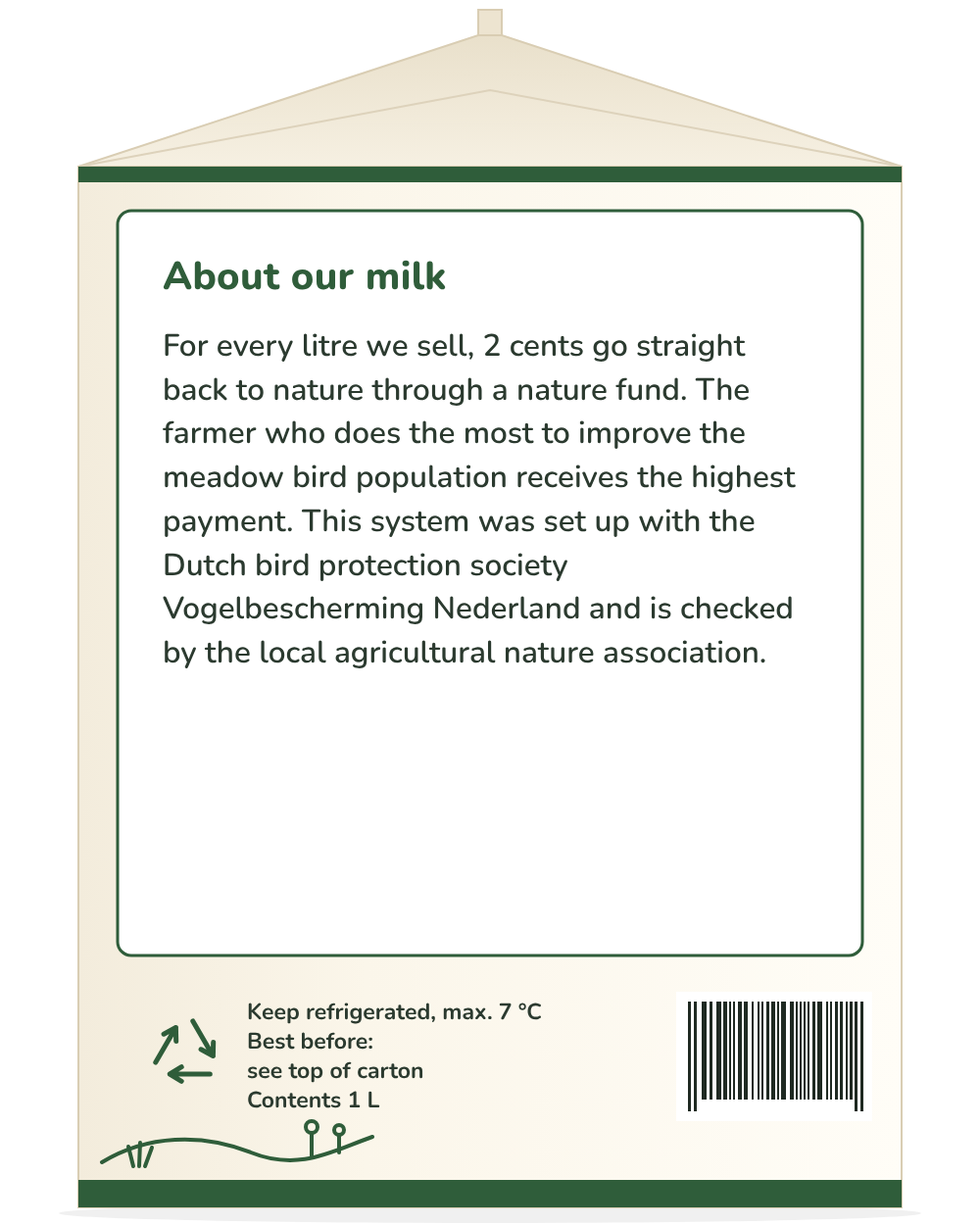
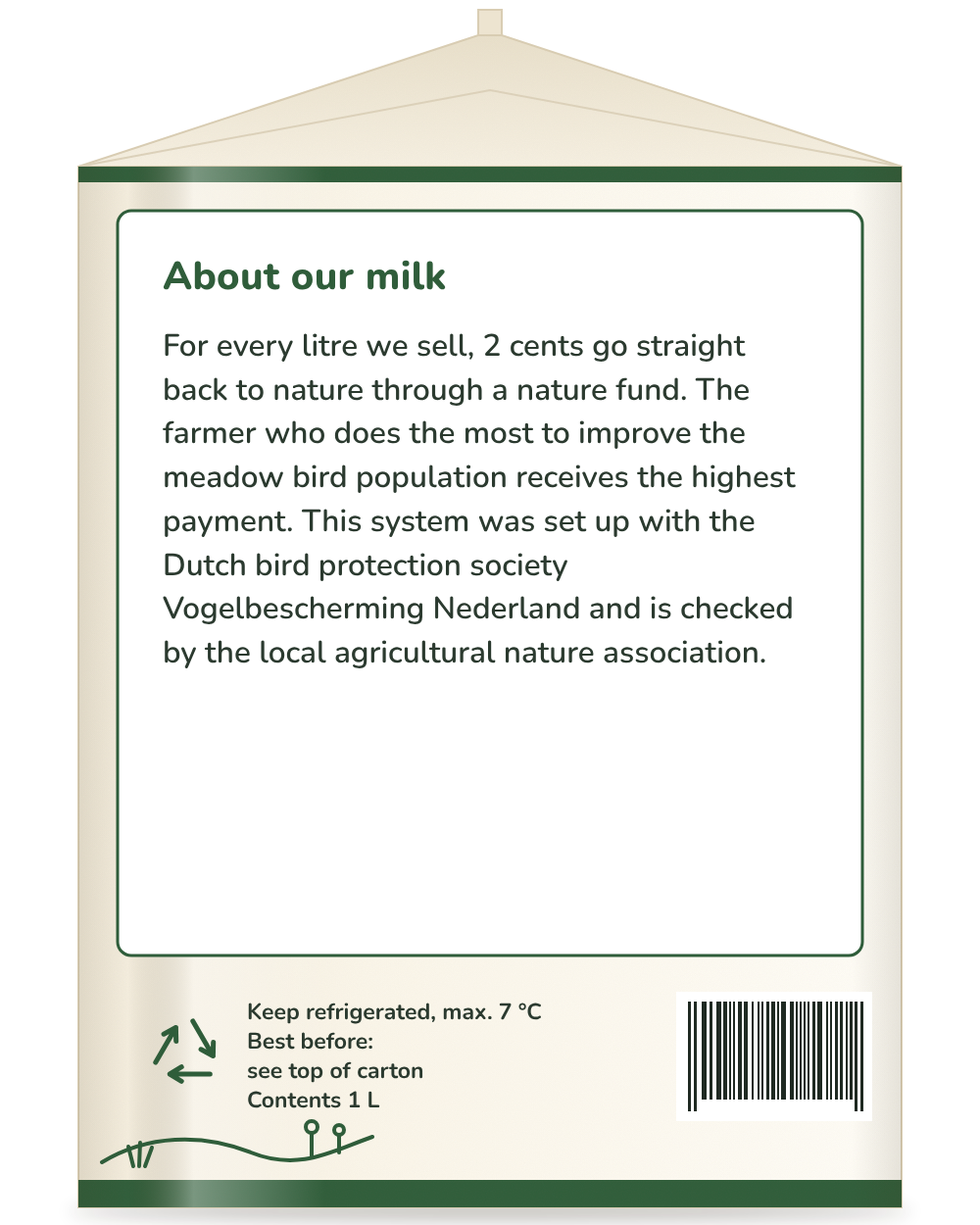
Redesign preview: realistic carton render, fuller webshop page, image zoom, progress indicator
Claude-Session: https://claude.ai/code/session_0165mzimojSkWb7uQjiVrJAc

Changed region(s): [[0.899, 0.156, 0.93, 0.9672], [0.155, 0.936, 0.775, 0.9984], [0.155, 0.1248, 0.31, 0.156]]

diff --git a/index.html b/index.html
@@ -35,31 +35,36 @@
 
 <!-- PRODUCT PAGE -->
 <div id="shop" hidden>
+  <div class="util"><div class="util-inner"><span data-t>Gratis bezorging vanaf € 50</span><span class="util-right"><a data-t>Klantenservice</a><a data-t>Winkels</a></span></div></div>
   <header class="topbar">
     <div class="topbar-inner">
       <a class="logo" aria-label="Dagkorf">
-        <svg width="34" height="34" viewBox="0 0 34 34" aria-hidden="true"><rect width="34" height="34" rx="9" fill="#2F5D3A"/><path d="M8 14h18l-2.4 11.2a2 2 0 0 1-2 1.6h-9.2a2 2 0 0 1-2-1.6z" fill="#FAF7F0"/><path d="M12 14l5-6 5 6" fill="none" stroke="#FAF7F0" stroke-width="2.2" stroke-linecap="round" stroke-linejoin="round"/></svg>
+        <svg width="36" height="36" viewBox="0 0 34 34" aria-hidden="true"><rect width="34" height="34" rx="9" fill="#2F5D3A"/><path d="M8 14h18l-2.4 11.2a2 2 0 0 1-2 1.6h-9.2a2 2 0 0 1-2-1.6z" fill="#FAF7F0"/><path d="M12 14l5-6 5 6" fill="none" stroke="#FAF7F0" stroke-width="2.2" stroke-linecap="round" stroke-linejoin="round"/></svg>
         <span>Dagkorf</span>
       </a>
-      <nav class="menu"><a data-t>Producten</a><a data-t>Aanbiedingen</a></nav>
       <div class="search" role="search">
-        <svg width="18" height="18" viewBox="0 0 24 24" aria-hidden="true"><circle cx="11" cy="11" r="7" fill="none" stroke="currentColor" stroke-width="2"/><path d="M20 20l-4-4" stroke="currentColor" stroke-width="2" stroke-linecap="round"/></svg>
         <input type="text" placeholder="Waar ben je naar op zoek?" data-t-ph aria-label="Zoeken" tabindex="-1" readonly>
+        <span class="search-btn"><svg width="18" height="18" viewBox="0 0 24 24" aria-hidden="true"><circle cx="11" cy="11" r="7" fill="none" stroke="currentColor" stroke-width="2.2"/><path d="M20 20l-4-4" stroke="currentColor" stroke-width="2.2" stroke-linecap="round"/></svg></span>
       </div>
-      <div class="basket" aria-label="Winkelmand">
-        <svg width="24" height="24" viewBox="0 0 24 24" aria-hidden="true"><path d="M3 9h18l-2 11H5z" fill="none" stroke="currentColor" stroke-width="1.8" stroke-linejoin="round"/><path d="M8 9l4-5 4 5" fill="none" stroke="currentColor" stroke-width="1.8" stroke-linecap="round" stroke-linejoin="round"/></svg>
-        <span>0,00</span>
+      <div class="actions">
+        <a class="act act-user"><svg width="22" height="22" viewBox="0 0 24 24" fill="none" stroke="currentColor" stroke-width="1.8" stroke-linecap="round" stroke-linejoin="round" aria-hidden="true"><circle cx="12" cy="8" r="4"/><path d="M4 21c0-4.4 3.6-7 8-7s8 2.6 8 7"/></svg><span data-t>Inloggen</span></a>
+        <a class="act act-fav"><svg width="22" height="22" viewBox="0 0 24 24" fill="none" stroke="currentColor" stroke-width="1.8" stroke-linecap="round" stroke-linejoin="round" aria-hidden="true"><path d="M12 20.5s-7.5-4.6-7.5-10.2A4.3 4.3 0 0 1 12 7.6a4.3 4.3 0 0 1 7.5 2.7c0 5.6-7.5 10.2-7.5 10.2z"/></svg><span data-t>Favorieten</span></a>
+        <div class="basket" aria-label="Winkelmand"><svg width="24" height="24" viewBox="0 0 24 24" fill="none" stroke="currentColor" stroke-width="1.8" stroke-linecap="round" stroke-linejoin="round" aria-hidden="true"><path d="M3 9h18l-2 11H5z"/><path d="M8 9l4-5 4 5"/></svg><span class="badge" id="basketCount" hidden>0</span><span id="basketTotal">0,00</span></div>
       </div>
     </div>
+    <nav class="cats" aria-label="Categorieën"><div class="cats-inner">
+      <a data-t>Groente, fruit</a><a data-t>Vlees, vis</a><a class="on" data-t>Zuivel, eieren</a><a data-t>Brood, bakkerij</a><a data-t>Dranken</a><a data-t>Voorraadkast</a><a data-t>Diepvries</a><a class="cats-offer" data-t>Aanbiedingen</a>
+    </div></nav>
   </header>
 
   <main class="page">
-    <nav class="crumbs" aria-label="Kruimelpad"><a data-t>Producten</a><span>›</span><a data-t>Zuivel, eieren</a><span>›</span><a data-t>Melk</a></nav>
+    <nav class="crumbs" aria-label="Kruimelpad"><a data-t>Producten</a><span>›</span><a data-t>Zuivel, eieren</a><span>›</span><a data-t>Melk</a><span>›</span><a data-t>Volle melk</a></nav>
 
     <section class="product">
       <div class="gallery">
         <div class="main-image">
           <img id="mainImg" alt="Voorkant van het pak melk" width="1000" height="1250">
+          <button id="zoomBtn" class="zoom-btn" type="button" aria-label="Vergroot afbeelding"><svg width="20" height="20" viewBox="0 0 24 24" fill="none" stroke="currentColor" stroke-width="1.8" stroke-linecap="round" stroke-linejoin="round" aria-hidden="true"><circle cx="11" cy="11" r="7"/><path d="M20 20l-4-4M11 8v6M8 11h6"/></svg></button>
           <button id="prevBtn" class="nav-arrow nav-prev" type="button" aria-label="Vorige afbeelding"><svg width="22" height="22" viewBox="0 0 24 24" aria-hidden="true"><path d="M15 5l-7 7 7 7" fill="none" stroke="currentColor" stroke-width="2.4" stroke-linecap="round" stroke-linejoin="round"/></svg></button>
           <button id="nextBtn" class="nav-arrow nav-next" type="button" aria-label="Volgende afbeelding"><svg width="22" height="22" viewBox="0 0 24 24" aria-hidden="true"><path d="M9 5l7 7-7 7" fill="none" stroke="currentColor" stroke-width="2.4" stroke-linecap="round" stroke-linejoin="round"/></svg></button>
           <div class="dots" aria-hidden="true"><span data-dot="front"></span><span data-dot="side"></span></div>
@@ -72,13 +77,21 @@
       </div>
 
       <div class="info">
+        <a class="brand">Weidelicht</a>
         <h1 data-t class="title">Weidelicht Volle melk</h1>
         <p data-t class="unit">1 l • Prijs per liter € 2,19</p>
         <div class="buy">
           <p class="price" aria-label="2 euro 19">2<span class="dot">,</span><sup>19</sup></p>
-          <button class="btn btn-primary btn-add" type="button"><span data-t>Voeg toe</span> <span aria-hidden="true">+</span></button>
+          <button id="addBtn" class="btn btn-primary btn-add" type="button"><span data-t>Voeg toe</span> <span aria-hidden="true">+</span></button>
+          <div id="stepper" class="stepper" hidden>
+            <button id="minBtn" type="button" aria-label="Minder">−</button><span id="qty">1</span><button id="plusBtn" type="button" aria-label="Meer">+</button>
+          </div>
+          <button id="favBtn" class="fav-btn" type="button" aria-label="Favoriet" aria-pressed="false"><svg width="22" height="22" viewBox="0 0 24 24" fill="none" stroke="currentColor" stroke-width="1.8" stroke-linecap="round" stroke-linejoin="round" aria-hidden="true"><path d="M12 20.5s-7.5-4.6-7.5-10.2A4.3 4.3 0 0 1 12 7.6a4.3 4.3 0 0 1 7.5 2.7c0 5.6-7.5 10.2-7.5 10.2z"/></svg></button>
         </div>
-        <p class="shelf"><span data-t>Na bezorging</span> <strong data-t>minimaal 4 dagen houdbaar</strong></p>
+        <ul class="perks">
+          <li><svg width="20" height="20" viewBox="0 0 24 24" fill="none" stroke="currentColor" stroke-width="1.8" stroke-linecap="round" stroke-linejoin="round" aria-hidden="true"><path d="M2 6h11v10H2zM13 9h4.5l3.5 3.5V16h-8z"/><circle cx="6.5" cy="17.5" r="1.8"/><circle cx="17" cy="17.5" r="1.8"/></svg><span><span data-t>Vandaag besteld,</span> <strong data-t>morgen in huis</strong></span></li>
+          <li><svg width="20" height="20" viewBox="0 0 24 24" fill="none" stroke="currentColor" stroke-width="1.8" stroke-linecap="round" stroke-linejoin="round" aria-hidden="true"><circle cx="12" cy="12" r="9"/><path d="M12 7v5l3.5 2"/></svg><span><span data-t>Na bezorging</span> <strong data-t>minimaal 4 dagen houdbaar</strong></span></li>
+        </ul>
         <hr>
         <h2 data-t>Over dit product</h2>
         <p data-t>Verse volle melk, gepasteuriseerd. Vol en romig van smaak.</p>
@@ -90,12 +103,32 @@
           <div><dt data-t>Inhoud:</dt><dd data-t>1 liter</dd></div>
           <div><dt data-t>Ingrediënten:</dt><dd data-t>volle melk</dd></div>
         </dl>
+        <div class="acc">
+          <details><summary><span data-t>Voedingswaarden</span><svg width="20" height="20" viewBox="0 0 24 24" fill="none" stroke="currentColor" stroke-width="1.8" stroke-linecap="round" stroke-linejoin="round" aria-hidden="true"><path d="M6 9l6 6 6-6"/></svg></summary>
+            <table class="nutri"><caption data-t>Gemiddeld per 100 ml</caption>
+              <tr><th data-t>Energie</th><td>272 kJ (65 kcal)</td></tr>
+              <tr><th data-t>Vetten</th><td>3,6 g</td></tr>
+              <tr class="sub"><th data-t>waarvan verzadigd</th><td>2,4 g</td></tr>
+              <tr><th data-t>Koolhydraten</th><td>4,6 g</td></tr>
+              <tr class="sub"><th data-t>waarvan suikers</th><td>4,6 g</td></tr>
+              <tr><th data-t>Eiwitten</th><td>3,4 g</td></tr>
+              <tr><th data-t>Zout</th><td>0,10 g</td></tr>
+              <tr><th data-t>Calcium</th><td>120 mg</td></tr>
+            </table>
+          </details>
+          <details><summary><span data-t>Allergenen</span><svg width="20" height="20" viewBox="0 0 24 24" fill="none" stroke="currentColor" stroke-width="1.8" stroke-linecap="round" stroke-linejoin="round" aria-hidden="true"><path d="M6 9l6 6 6-6"/></svg></summary><p data-t>Bevat: melk (lactose).</p></details>
+          <details><summary><span data-t>Bewaren</span><svg width="20" height="20" viewBox="0 0 24 24" fill="none" stroke="currentColor" stroke-width="1.8" stroke-linecap="round" stroke-linejoin="round" aria-hidden="true"><path d="M6 9l6 6 6-6"/></svg></summary><p data-t>Gekoeld bewaren bij maximaal 7 °C. Na openen beperkt houdbaar.</p></details>
+        </div>
       </div>
     </section>
 
     <section class="questions" id="vragen">
-      <h2 data-t>Vragen</h2>
-      <p data-t class="note">U kunt terug scrollen naar het product terwijl u antwoordt.</p>
+      <div class="q-head">
+        <p class="q-kicker" data-t>Onderzoek van een student van Hotelschool The Hague</p>
+        <h2 data-t>Vragen</h2>
+        <p data-t class="note">U kunt terug scrollen naar het product terwijl u antwoordt.</p>
+        <div class="progress" id="progress" aria-hidden="true"><div class="progress-bar"><span id="progressFill"></span></div><span id="progressText"></span></div>
+      </div>
       <form id="survey" class="survey" novalidate>
         <div class="hp" aria-hidden="true"><label>Website <input type="text" name="website" tabindex="-1" autocomplete="off"></label></div>
         <fieldset class="q" id="q-v1" data-name="v1">
@@ -184,13 +217,24 @@
     </section>
   </main>
 
+  <footer class="shopfoot">
+    <div class="shopfoot-inner">
+      <div><h4 data-t>Klantenservice</h4><a data-t>Veelgestelde vragen</a><a data-t>Bezorgen en afhalen</a><a data-t>Contact</a></div>
+      <div><h4 data-t>Over Dagkorf</h4><a data-t>Onze winkels</a><a data-t>Werken bij</a><a data-t>Pers</a></div>
+      <div><h4 data-t>Bestellen</h4><a data-t>Mijn bestellingen</a><a data-t>Betaalmethoden</a><a data-t>Voorwaarden</a></div>
+    </div>
+    <p class="shopfoot-copy">© 2026 Dagkorf</p>
+  </footer>
   <footer class="foot">
-    <p data-t>Onderzoek van een student van Hotelschool The Hague</p>
     <a data-t id="nextPerson" class="next-person" href="#">Volgende deelnemer op dit apparaat</a>
   </footer>
 </div>
 
 
+<div id="lightbox" class="lightbox" hidden>
+  <button id="lbClose" class="lb-close" type="button" aria-label="Sluiten"><svg width="22" height="22" viewBox="0 0 24 24" aria-hidden="true"><path d="M6 6l12 12M18 6L6 18" stroke="currentColor" stroke-width="2.4" stroke-linecap="round"/></svg></button>
+  <div class="lb-scroll" id="lbScroll"><img id="lbImg" alt=""></div>
+</div>
 <script src="config.js"></script>
 <script src="i18n.js"></script>
 <script src="app.js"></script>

diff --git a/styles.css b/styles.css
@@ -29,17 +29,33 @@ img{display:block;max-width:100%;height:auto}
 .start-card .btn{margin-top:10px;width:100%;max-width:260px}
 
 /* header */
+.util{background:var(--green);color:#EAF2EA;font-size:13px;font-weight:600}
+.util-inner{max-width:1180px;margin:0 auto;padding:7px 16px;display:flex;justify-content:center;gap:24px}
+.util-right{display:none;gap:22px}
 .topbar{background:var(--white);border-bottom:1px solid var(--line);position:sticky;top:0;z-index:5}
-.topbar-inner{max-width:1180px;margin:0 auto;padding:12px 16px;display:grid;grid-template-columns:auto 1fr auto;grid-template-areas:"logo . basket" "search search search";gap:10px 16px;align-items:center}
-.logo{grid-area:logo;display:flex;align-items:center;gap:10px;font-weight:800;font-size:22px;color:var(--green)}
-.menu{display:none}
-.search{grid-area:search;display:flex;align-items:center;gap:10px;background:#F3F0E8;border-radius:999px;padding:10px 16px;color:#777}
+.topbar-inner{max-width:1180px;margin:0 auto;padding:12px 16px 10px;display:grid;grid-template-columns:auto 1fr;grid-template-areas:"logo actions" "search search";gap:10px 16px;align-items:center}
+.logo{grid-area:logo;display:flex;align-items:center;gap:10px;font-weight:800;font-size:23px;color:var(--green);letter-spacing:-.2px}
+.search{grid-area:search;display:flex;align-items:center;background:#F3F0E8;border-radius:999px;padding:4px 4px 4px 18px;color:#777}
 .search input{border:0;background:transparent;font:inherit;color:#777;width:100%;outline:none;pointer-events:none}
-.basket{grid-area:basket;display:flex;align-items:center;gap:8px;border:1px solid var(--line);border-radius:999px;padding:8px 14px;font-weight:700;color:var(--green)}
+.search-btn{flex:none;width:38px;height:38px;border-radius:50%;background:var(--green);color:#fff;display:flex;align-items:center;justify-content:center}
+.actions{grid-area:actions;justify-self:end;display:flex;align-items:center;gap:6px}
+.act{display:flex;flex-direction:column;align-items:center;gap:1px;color:var(--ink);font-size:11px;font-weight:700;padding:4px 8px}
+.act span{display:none}
+.basket{position:relative;display:flex;align-items:center;gap:8px;background:var(--green);color:#fff;border-radius:999px;padding:9px 16px 9px 14px;font-weight:800;margin-left:4px}
+.badge{position:absolute;left:24px;top:2px;min-width:18px;height:18px;border-radius:9px;background:#F2B544;color:#3a2a05;font-size:11px;font-weight:800;display:flex;align-items:center;justify-content:center;padding:0 4px;border:2px solid var(--green)}
+.cats{border-top:1px solid var(--line);overflow-x:auto;-webkit-overflow-scrolling:touch;scrollbar-width:none}
+.cats::-webkit-scrollbar{display:none}
+.cats-inner{max-width:1180px;margin:0 auto;padding:0 16px;display:flex;gap:22px;white-space:nowrap;font-weight:700;font-size:15px;color:#3a463d}
+.cats a{padding:11px 0 9px;border-bottom:3px solid transparent}
+.cats a.on{color:var(--green);border-bottom-color:var(--green)}
+.cats-offer{color:#B3541E}
 @media (min-width:900px){
-  .topbar-inner{grid-template-columns:auto auto 1fr auto;grid-template-areas:"logo menu search basket";padding:16px 24px}
-  .menu{grid-area:menu;display:flex;gap:26px;font-weight:600;font-size:17px;margin-left:12px}
-  .search{max-width:560px;justify-self:center;width:100%}
+  .util-inner{justify-content:space-between;padding:7px 24px}
+  .util-right{display:flex}
+  .topbar-inner{grid-template-columns:auto 1fr auto;grid-template-areas:"logo search actions";padding:16px 24px;gap:28px}
+  .search{max-width:620px;width:100%;justify-self:center}
+  .act span{display:block}
+  .cats-inner{padding:0 24px;gap:30px}
 }
 
 /* page */
@@ -53,7 +69,8 @@ img{display:block;max-width:100%;height:auto}
 
 /* gallery */
 .main-image{position:relative;background:#fff;border-radius:12px;overflow:hidden;aspect-ratio:4/5;display:flex;align-items:center;justify-content:center}
-.main-image img{width:100%;height:100%;object-fit:contain}
+.main-image img{width:100%;height:100%;object-fit:contain;cursor:zoom-in}
+.zoom-btn{position:absolute;top:10px;right:10px;width:40px;height:40px;border-radius:50%;border:1px solid var(--line);background:rgba(255,255,255,.95);color:var(--green);display:flex;align-items:center;justify-content:center;cursor:zoom-in}
 .nav-arrow{position:absolute;top:50%;transform:translateY(-50%);width:44px;height:44px;border-radius:50%;border:1px solid var(--line);background:rgba(255,255,255,.95);color:var(--green);display:flex;align-items:center;justify-content:center;cursor:pointer;box-shadow:0 2px 8px rgba(0,0,0,.08)}
 .nav-prev{left:8px}.nav-next{right:8px}
 .nav-arrow[disabled]{opacity:0;pointer-events:none}
@@ -74,16 +91,24 @@ img{display:block;max-width:100%;height:auto}
 @media (min-width:900px){.main-image{max-width:520px;margin:0 auto}}
 
 /* info */
+.brand{display:inline-block;font-size:13px;font-weight:800;letter-spacing:1.2px;text-transform:uppercase;color:var(--green);margin-bottom:4px}
 .title{font-size:28px;line-height:1.2;margin:0 0 6px;font-weight:800}
 .unit{color:var(--grey);margin:0 0 16px;font-weight:600}
-.buy{display:flex;align-items:center;gap:22px;margin-bottom:18px}
+.buy{display:flex;align-items:center;gap:14px;margin-bottom:18px}
 .price{margin:0;font-size:52px;font-weight:800;line-height:1;letter-spacing:-1px}
 .price .dot{font-size:0}
 .price sup{font-size:24px;vertical-align:top;position:relative;top:4px;margin-left:2px;letter-spacing:0}
-.btn-add{font-size:18px;padding:13px 26px;flex:1;max-width:240px}
+.btn-add{font-size:18px;padding:13px 26px;flex:1;max-width:240px;height:52px;margin-left:8px}
+.stepper{flex:1;max-width:240px;height:52px;margin-left:8px;display:flex;align-items:center;justify-content:space-between;border:2px solid var(--green);border-radius:10px;font-weight:800;font-size:18px;color:var(--green);overflow:hidden}
+.stepper button{font:inherit;font-size:24px;width:52px;height:100%;border:0;background:var(--green);color:#fff;cursor:pointer}
+.fav-btn{flex:none;width:52px;height:52px;border-radius:10px;border:1.5px solid var(--line);background:#fff;color:var(--grey);display:flex;align-items:center;justify-content:center;cursor:pointer}
+.fav-btn[aria-pressed="true"]{color:#C0392B;border-color:#E8B4AE}
+.fav-btn[aria-pressed="true"] svg{fill:#C0392B}
 .btn-add span{margin-left:6px}
-.shelf{border:1px solid var(--line);border-radius:12px;padding:12px 16px;color:var(--grey);margin:0 0 20px;background:#FCFBF8}
-.shelf strong{color:var(--green);font-weight:700}
+.perks{list-style:none;margin:0 0 20px;padding:12px 16px;border:1px solid var(--line);border-radius:12px;background:#FCFBF8;display:grid;gap:8px;color:var(--grey)}
+.perks li{display:flex;align-items:center;gap:10px}
+.perks svg{flex:none;color:var(--green)}
+.perks strong{color:var(--green);font-weight:700}
 .info hr{border:0;border-top:1px solid var(--line);margin:4px 0 18px}
 .info h2{font-size:20px;margin:0 0 8px;font-weight:800}
 .info > p{margin:0 0 16px;color:#333}
@@ -94,12 +119,31 @@ img{display:block;max-width:100%;height:auto}
 .facts div{display:flex;gap:6px}
 .facts dt{font-weight:700}
 .facts dd{margin:0}
+.acc{margin-top:18px;border-top:1px solid var(--line)}
+.acc details{border-bottom:1px solid var(--line)}
+.acc summary{list-style:none;display:flex;justify-content:space-between;align-items:center;padding:14px 2px;font-weight:800;cursor:pointer}
+.acc summary::-webkit-details-marker{display:none}
+.acc summary svg{color:var(--grey);transition:transform .15s}
+.acc details[open] summary svg{transform:rotate(180deg)}
+.acc p{margin:0 0 14px;color:#333}
+.nutri{width:100%;border-collapse:collapse;margin:0 0 14px;font-size:15px}
+.nutri caption{text-align:left;color:var(--grey);font-size:13px;margin-bottom:6px}
+.nutri th{text-align:left;font-weight:600;padding:7px 0}
+.nutri td{text-align:right;padding:7px 0}
+.nutri tr{border-top:1px solid #EFEADF}
+.nutri .sub th{padding-left:14px;font-weight:400;color:#444}
 @media (min-width:900px){.title{font-size:34px}.claim p{font-size:17px}}
 
 /* questions */
-.questions{margin-top:28px}
+.questions{margin-top:32px;background:#EFEADF;border-radius:20px;padding:20px 12px 24px}
+.q-head{padding:0 6px;margin-bottom:14px}
+.q-kicker{margin:0 0 2px;font-size:12px;font-weight:800;letter-spacing:1px;text-transform:uppercase;color:#7a7462}
 .questions h2{font-size:24px;margin:0 0 4px;font-weight:800;color:var(--green)}
-.note{margin:0 0 14px;color:var(--grey)}
+.note{margin:0 0 12px;color:var(--grey)}
+.progress{display:flex;align-items:center;gap:12px;font-size:13px;font-weight:700;color:var(--grey);position:sticky;top:0}
+.progress-bar{flex:1;height:8px;border-radius:4px;background:#DDD6C6;overflow:hidden}
+.progress-bar span{display:block;height:100%;width:0;background:var(--green);border-radius:4px;transition:width .25s}
+@media (min-width:900px){.questions{padding:32px 40px 36px}.q-head{padding:0}.progress{max-width:760px}}
 .survey{display:grid;gap:14px}
 .hp{position:absolute;left:-9999px;width:1px;height:1px;overflow:hidden}
 .q{background:var(--white);border:1.5px solid transparent;border-radius:16px;padding:18px 16px 16px;margin:0;min-width:0}
@@ -133,9 +177,18 @@ img{display:block;max-width:100%;height:auto}
 .thanks h3{margin:0 0 8px;font-size:24px;color:var(--green)}
 .thanks p{margin:0 auto;max-width:560px;color:#333}
 @media (min-width:900px){.q{padding:22px 24px 20px}.survey,.thanks{max-width:760px}}
-.foot{text-align:center;color:#8a8a8a;font-size:13px;padding:0 16px 28px}
-.foot p{margin:0 0 6px}
-.next-person{color:#9a9a9a;text-decoration:underline;cursor:pointer;font-size:12px}
+.shopfoot{background:#243F2B;color:#D9E5DA;margin-top:8px}
+.shopfoot-inner{max-width:1180px;margin:0 auto;padding:28px 24px 8px;display:grid;grid-template-columns:repeat(auto-fit,minmax(150px,1fr));gap:20px}
+.shopfoot h4{margin:0 0 8px;font-size:15px;color:#fff}
+.shopfoot a{display:block;font-size:14px;padding:3px 0;color:#C9D8CB}
+.shopfoot-copy{max-width:1180px;margin:0 auto;padding:12px 24px 22px;font-size:13px;color:#9DB3A1}
+.foot{text-align:center;padding:14px 16px 22px;background:#243F2B}
+.next-person{color:#8FA693;text-decoration:underline;cursor:pointer;font-size:12px}
+.lightbox{position:fixed;inset:0;z-index:20;background:rgba(20,26,22,.88)}
+.lb-scroll{position:absolute;inset:0;overflow:auto;-webkit-overflow-scrolling:touch;display:flex}
+.lb-scroll img{margin:auto;width:max(100%,min(1000px,130vw));max-width:none;height:auto;background:#fff}
+.lb-close{position:absolute;top:12px;right:12px;z-index:2;width:44px;height:44px;border-radius:50%;border:0;background:#fff;color:var(--ink);display:flex;align-items:center;justify-content:center;cursor:pointer;box-shadow:0 2px 10px rgba(0,0,0,.3)}
+@media (min-width:900px){.lb-scroll img{width:auto;height:96vh;margin:2vh auto}}
 .lang-title{font-size:26px;line-height:1.25;margin:0 0 22px;color:var(--green);font-weight:800}
 .lang-title span{display:block;font-size:20px;font-weight:700;color:var(--grey);margin-top:4px}
 .lang-btns{display:grid;gap:12px;justify-items:center}

diff --git a/app.js b/app.js
@@ -78,9 +78,47 @@
     // preload the side image so switching is instant
     var pre = new Image(); pre.src = sideImg(version);
 
+    setupShop();
     setupSurvey(version);
 
     window.scrollTo(0, 0);
+  }
+
+  // ---------- Shop behaviour (identical in every version) ----------
+  function setupShop() {
+    var qty = 0;
+    function euro(n) { return n.toFixed(2).replace(".", ","); }
+    function renderBasket() {
+      $("addBtn").hidden = qty > 0;
+      $("stepper").hidden = qty === 0;
+      $("qty").textContent = qty;
+      $("basketCount").hidden = qty === 0;
+      $("basketCount").textContent = qty;
+      $("basketTotal").textContent = euro(qty * 2.19);
+    }
+    $("addBtn").addEventListener("click", function () { qty = 1; renderBasket(); });
+    $("plusBtn").addEventListener("click", function () { if (qty < 9) qty++; renderBasket(); });
+    $("minBtn").addEventListener("click", function () { qty--; renderBasket(); });
+    $("favBtn").addEventListener("click", function () {
+      this.setAttribute("aria-pressed", this.getAttribute("aria-pressed") === "true" ? "false" : "true");
+    });
+
+    // image zoom
+    function openZoom() {
+      $("lbImg").src = $("mainImg").src;
+      $("lbImg").alt = $("mainImg").alt;
+      $("lightbox").hidden = false;
+      document.body.style.overflow = "hidden";
+      var sc = $("lbScroll");
+      var centre = function () { sc.scrollLeft = (sc.scrollWidth - sc.clientWidth) / 2; sc.scrollTop = 0; };
+      if ($("lbImg").complete) centre(); else $("lbImg").onload = centre;
+    }
+    function closeZoom() { $("lightbox").hidden = true; document.body.style.overflow = ""; }
+    $("zoomBtn").addEventListener("click", openZoom);
+    $("mainImg").addEventListener("click", openZoom);
+    $("lbClose").addEventListener("click", closeZoom);
+    $("lbScroll").addEventListener("click", function (e) { if (e.target === this) closeZoom(); });
+    document.addEventListener("keydown", function (e) { if (e.key === "Escape") closeZoom(); });
   }
 
   // ---------- Questions ----------
@@ -89,7 +127,7 @@
   var testSend = /[?&]echt=1\b/.test(location.search);
 
   function isDone() { try { return localStorage.getItem(DONE) === "1"; } catch (e) { return false; } }
-  function showThanks() { $("survey").hidden = true; $("thanks").hidden = false; document.querySelector(".questions .note").hidden = true; }
+  function showThanks() { $("survey").hidden = true; $("thanks").hidden = false; document.querySelector(".questions .note").hidden = true; $("progress").hidden = true; }
 
   function collect(form) {
     var data = { versie: null, website: form.website.value }, missing = [];
@@ -122,9 +160,18 @@
   function setupSurvey(version) {
     var form = $("survey");
     if (isDone() && !testMode) { showThanks(); return; }
+    var total = form.querySelectorAll("fieldset.q").length;
+    function progress() {
+      var n = 0, sets = form.querySelectorAll("fieldset.q");
+      for (var i = 0; i < sets.length; i++) if (sets[i].querySelector("input:checked")) n++;
+      $("progressFill").style.width = (100 * n / total) + "%";
+      $("progressText").textContent = (lang === "en" ? "{n} of {t} answered" : "{n} van {t} beantwoord").replace("{n}", n).replace("{t}", total);
+    }
+    progress();
     form.addEventListener("change", function (e) {
       var fs = e.target.closest("fieldset.q");
       if (fs && fs.querySelector("input:checked")) fs.classList.remove("missing");
+      progress();
     });
     form.addEventListener("submit", function (e) {
       e.preventDefault();

diff --git a/i18n.js b/i18n.js
@@ -14,6 +14,45 @@ window.SURVEY_EN = {
     "U ziet zo een productpagina van een webwinkel. Bekijk het product rustig en beantwoord daarna de vragen onder de pagina.":
       "You will now see a product page of an online shop. Take a good look at the product and then answer the questions below the page.",
     "Start": "Start",
+    "Gratis bezorging vanaf € 50": "Free delivery from € 50",
+    "Klantenservice": "Customer service",
+    "Winkels": "Stores",
+    "Inloggen": "Log in",
+    "Favorieten": "Favourites",
+    "Groente, fruit": "Vegetables, fruit",
+    "Vlees, vis": "Meat, fish",
+    "Brood, bakkerij": "Bread, bakery",
+    "Dranken": "Drinks",
+    "Voorraadkast": "Pantry",
+    "Diepvries": "Frozen",
+    "Volle melk": "Whole milk",
+    "Vandaag besteld,": "Ordered today,",
+    "morgen in huis": "delivered tomorrow",
+    "Voedingswaarden": "Nutritional values",
+    "Gemiddeld per 100 ml": "Average per 100 ml",
+    "Energie": "Energy",
+    "Vetten": "Fat",
+    "waarvan verzadigd": "of which saturated",
+    "Koolhydraten": "Carbohydrates",
+    "waarvan suikers": "of which sugars",
+    "Eiwitten": "Protein",
+    "Zout": "Salt",
+    "Calcium": "Calcium",
+    "Allergenen": "Allergens",
+    "Bevat: melk (lactose).": "Contains: milk (lactose).",
+    "Bewaren": "Storage",
+    "Gekoeld bewaren bij maximaal 7 °C. Na openen beperkt houdbaar.": "Keep refrigerated at a maximum of 7 °C. Use soon after opening.",
+    "Veelgestelde vragen": "Frequently asked questions",
+    "Bezorgen en afhalen": "Delivery and pick-up",
+    "Contact": "Contact",
+    "Over Dagkorf": "About Dagkorf",
+    "Onze winkels": "Our stores",
+    "Werken bij": "Careers",
+    "Pers": "Press",
+    "Bestellen": "Ordering",
+    "Mijn bestellingen": "My orders",
+    "Betaalmethoden": "Payment methods",
+    "Voorwaarden": "Terms and conditions",
     "Producten": "Products",
     "Aanbiedingen": "Offers",
     "Waar ben je naar op zoek?": "What are you looking for?",
